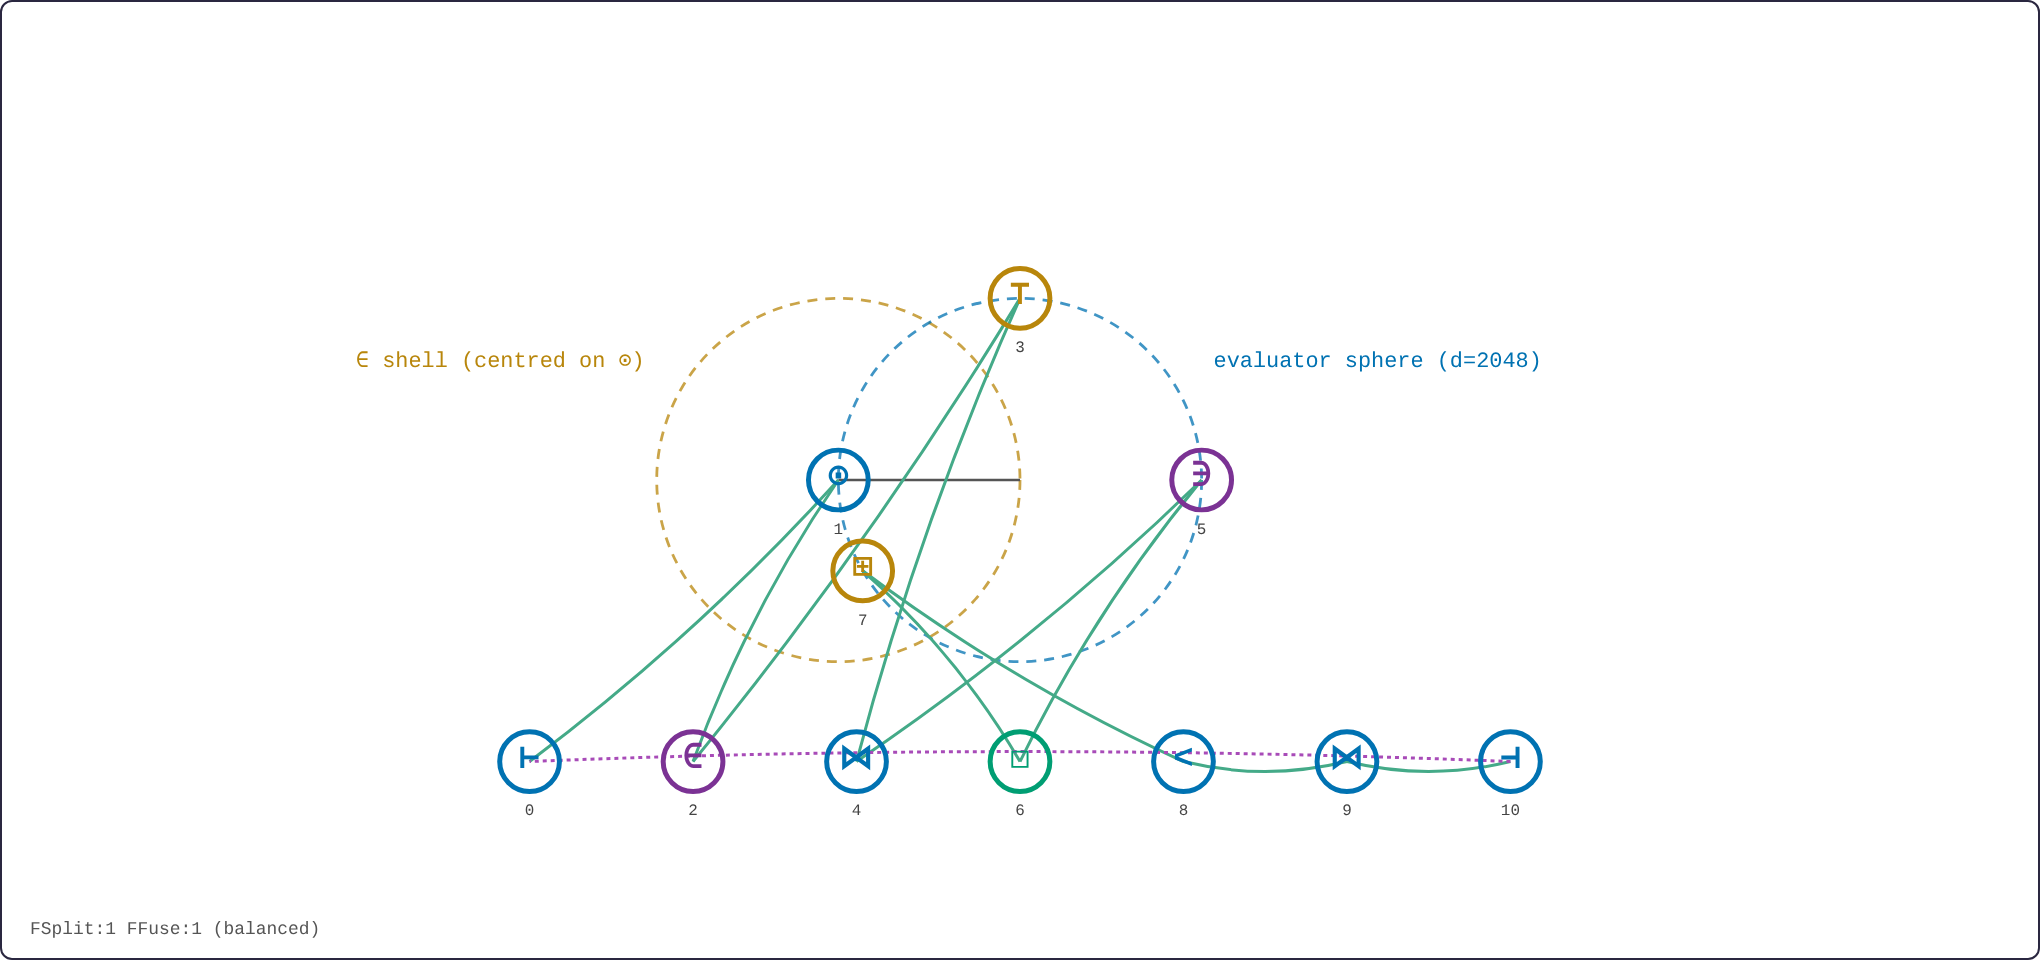
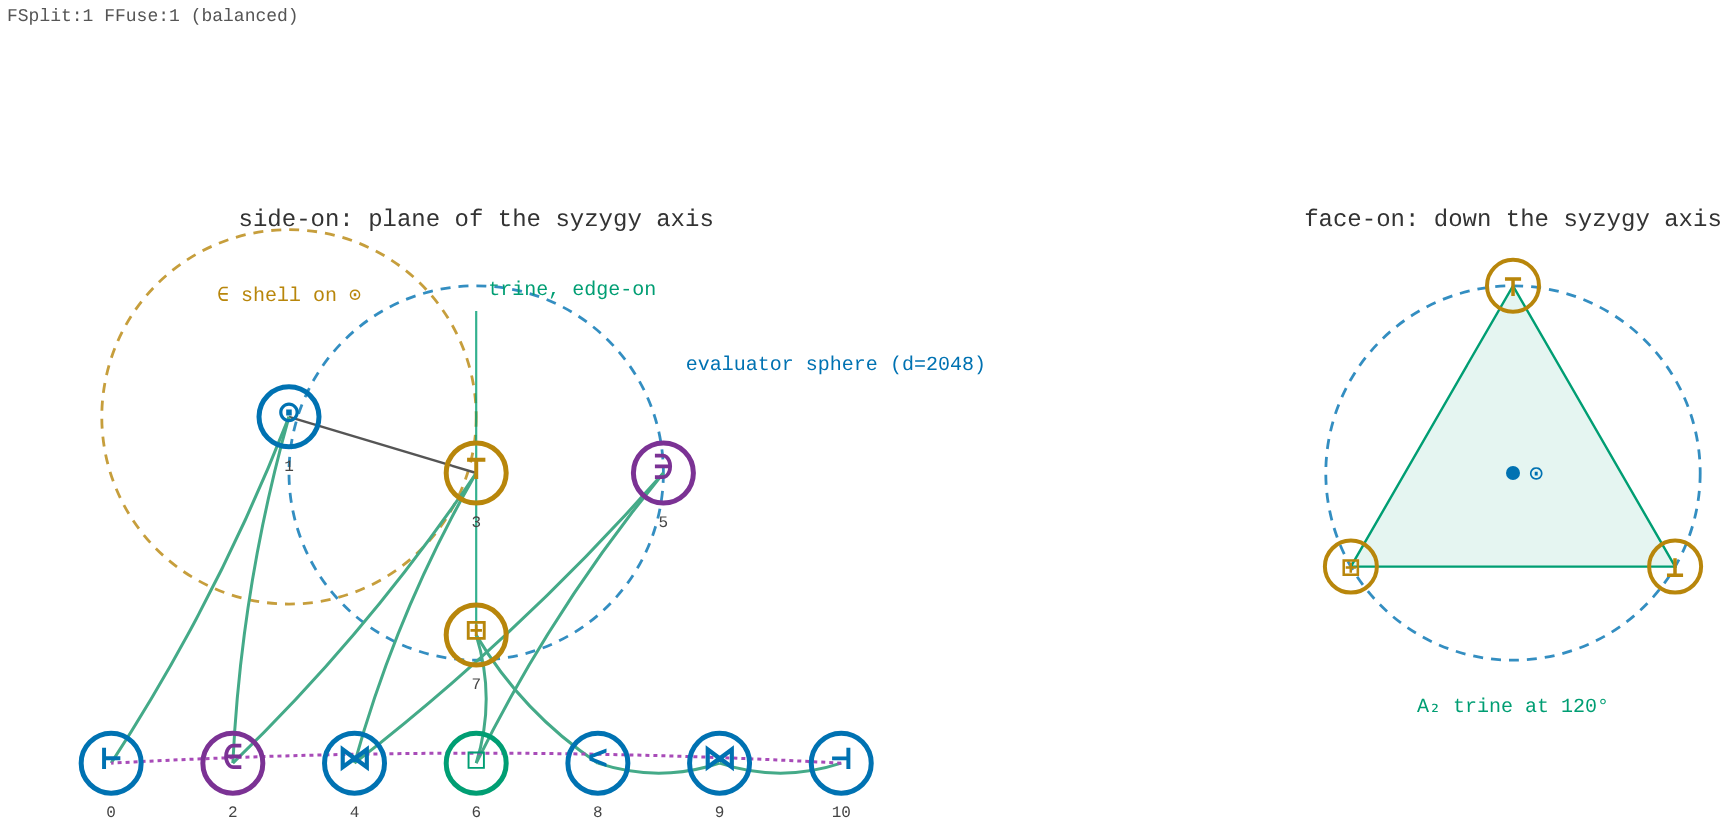
Two panels, because the geometry does not fit in one
The figure showed the two shells as tangent circles AND the trine spread at 120
degrees. Those are facts about different planes. The shells appear tangent only
in a plane containing the syzygy axis; the trine stands at 120 degrees only in
the plane perpendicular to it. Drawing both put two mutually exclusive viewpoints
in one picture, which is a perspective that does not exist. plotter3 emits
separate views for exactly this reason and this now follows it.

Left is side-on: the FSPLIT shell centred on IMSCRIB, the evaluator sphere of
equal radius one radius along the axis so IMSCRIB lies on it, FFUSE at the
antipodal pole, and the trine drawn as the vertical span it actually is in this
plane rather than as a triangle it is not. The program rides this panel.

Right is face-on down the axis: the same evaluator sphere as one circle, the
three arms at 120 degrees, the A2 trine, IMSCRIB at the centre.

Both panels are at one scale, so the two readings of the same sphere can be
compared rather than only believed.

diff --git a/dialect_cfg_viz.html b/dialect_cfg_viz.html
@@ -26,7 +26,7 @@ textarea{width:100%;background:#1e1c2e;color:#f0ead8;border:1px solid #3a3550;bo
 #ruleset-box .gv{color:#f0ead8}
 #rslt-box{background:#1a1828;border:1px solid #2a2740;border-radius:6px;padding:10px;margin:10px 0;font-size:11px}
 #cfg-box{background:#1a1828;border:1px solid #2a2740;border-radius:6px;padding:10px;margin:10px 0;font-size:11px;line-height:1.6}
-#cfg-view{width:100%;height:480px;background:transparent;border:1px solid #2a2740;border-radius:6px;position:relative;overflow:hidden}
+#cfg-view{width:100%;height:480px;background:transparent;border:none;position:relative;overflow:hidden}
 #cfg-view svg{width:100%;height:100%}
 .edge{stroke:#3a3550;stroke-width:1.5;fill:none}
 .edge.pass{stroke:#4a8}
@@ -442,67 +442,91 @@ function drawCFG(tokens, ig, allPass, seq, g1p, g2p, g3p, idx) {
   
   let html = "";
   
-  // Layout: the kernel's own geometry, not a ring.
+  // Layout: the kernel's own geometry, in TWO panels.
   //
-  // A circle placed every token at an arbitrary angle, so the picture said
-  // nothing the token order did not already say. The real arrangement is fixed
-  // (k3vM.html, "Spheres and evaluators"): the ∈ shell is centred on ⊙ with
-  // radius LR; the evaluator sphere has the SAME radius and is centred one
-  // radius along +x, so ⊙ lies exactly on it and the two are tangent; the three
-  // evaluators ⊤ ⊥ ⊞ stand at 120° on the evaluator equator, the A₂ trine; and
-  // ∋ sits at the antipodal pole, at 2·LR. The mainline ⊢ … ⊣ runs along the
-  // syzygy axis through both centres.
+  // A single panel cannot hold it. The two shells appear as tangent circles only
+  // in a plane containing the syzygy axis, and the A₂ trine appears at 120° only
+  // in the plane perpendicular to it. Drawing the tangency and the 120° spread
+  // together puts two mutually exclusive viewpoints in one picture. plotter3
+  // emits separate views for exactly this reason, and this follows it.
   //
-  // So a token's position is a fact about what it is, and the two shells and
-  // their tangency are drawn rather than implied.
-  const LR = Math.min(W, H) * 0.19;          // shell radius, both spheres
-  const ODOT = { x: W / 2 - LR, y: H / 2 };  // ⊙, centre of the ∈ shell
-  const CEN  = { x: ODOT.x + LR, y: H / 2 }; // evaluator sphere centre
-  const POLE = { x: ODOT.x + 2 * LR, y: H / 2 }; // ∋, antipodal pole
+  //   LEFT  — side-on, the plane of the syzygy axis: the ∈ shell centred on ⊙,
+  //           the evaluator sphere of equal radius one radius along +x so ⊙ lies
+  //           on it, ∋ at the antipodal pole. The trine is edge-on here and is
+  //           NOT drawn as a triangle, because in this plane it is not one.
+  //   RIGHT — face-on, looking down the syzygy axis: the evaluator sphere as one
+  //           circle with the three arms at 120°, the A₂ trine, ⊙ at the centre.
+  //
+  const PW = W / 2;                       // panel width
+  const LR = Math.min(PW, H) * 0.195;     // shell radius, one scale for both
+  const yMid = H / 2;
 
-  // the A₂ trine on the evaluator equator, ⊤ at the top
-  const TRINE = ["EVALT", "EVALF", "ENGAGR"];
-  const trinePos = {};
-  TRINE.forEach((tok, k) => {
-    const a = -Math.PI / 2 + 2 * Math.PI * k / 3;
-    trinePos[tok] = { x: CEN.x + LR * Math.cos(a), y: CEN.y + LR * Math.sin(a) };
-  });
+  // ── left panel: side-on ──
+  const ODOT = { x: PW * 0.30, y: yMid - LR * 0.30 };
+  const CEN  = { x: ODOT.x + LR, y: yMid };
+  const POLE = { x: ODOT.x + 2 * LR, y: yMid };
+  const h3 = LR * Math.sqrt(3) / 2;
 
-  // Both shells and the coupler between their centres, drawn first so the
-  // tokens sit on them rather than in front of an empty field.
-  html += `<circle cx="${ODOT.x}" cy="${ODOT.y}" r="${LR}" fill="none" stroke="#B8860B" stroke-width="1.4" stroke-dasharray="5 4" opacity="0.75"/>`;
-  html += `<circle cx="${CEN.x}" cy="${CEN.y}" r="${LR}" fill="none" stroke="#0072B2" stroke-width="1.4" stroke-dasharray="5 4" opacity="0.75"/>`;
+  html += `<circle cx="${ODOT.x}" cy="${ODOT.y}" r="${LR}" fill="none" stroke="#B8860B" stroke-width="1.4" stroke-dasharray="5 4" opacity="0.8"/>`;
+  html += `<circle cx="${CEN.x}" cy="${CEN.y}" r="${LR}" fill="none" stroke="#0072B2" stroke-width="1.4" stroke-dasharray="5 4" opacity="0.8"/>`;
   html += `<line x1="${ODOT.x}" y1="${ODOT.y}" x2="${CEN.x}" y2="${CEN.y}" stroke="#555" stroke-width="1.2"/>`;
-  html += `<text x="${ODOT.x - LR - 6}" y="${ODOT.y - LR * 0.62}" fill="#B8860B" font-size="11" text-anchor="end">∈ shell (centred on ⊙)</text>`;
-  html += `<text x="${CEN.x + LR + 6}" y="${CEN.y - LR * 0.62}" fill="#0072B2" font-size="11">evaluator sphere (d=2048)</text>`;
+  html += `<line x1="${CEN.x}" y1="${CEN.y - h3}" x2="${CEN.x}" y2="${CEN.y + h3}" stroke="#009E73" stroke-width="1.1" opacity="0.8"/>`;
+  html += `<text x="${ODOT.x + LR}" y="${yMid - LR - 30}" text-anchor="middle" fill="#333" font-size="12">side-on: plane of the syzygy axis</text>`;
+  html += `<text x="${ODOT.x}" y="${ODOT.y - LR * 0.62}" text-anchor="middle" fill="#B8860B" font-size="10">∈ shell on ⊙</text>`;
+  html += `<text x="${POLE.x + LR * 0.12}" y="${yMid - LR * 0.55}" fill="#0072B2" font-size="10">evaluator sphere (d=2048)</text>`;
+  html += `<text x="${CEN.x + 6}" y="${CEN.y - h3 - 8}" fill="#009E73" font-size="10">trine, edge-on</text>`;
 
-  // Mainline positions for the tokens the geometry does not pin: they ride the
-  // syzygy axis in program order, which is where the kernel puts them.
+  // ── right panel: face-on ──
+  const FCEN = { x: PW + PW * 0.5, y: yMid };
+  html += `<circle cx="${FCEN.x}" cy="${FCEN.y}" r="${LR}" fill="none" stroke="#0072B2" stroke-width="1.4" stroke-dasharray="5 4" opacity="0.8"/>`;
+  html += `<text x="${FCEN.x}" y="${yMid - LR - 30}" text-anchor="middle" fill="#333" font-size="12">face-on: down the syzygy axis</text>`;
+  const facePos = {};
+  ["EVALT", "EVALF", "ENGAGR"].forEach((tok, k) => {
+    const a = -Math.PI / 2 + 2 * Math.PI * k / 3;
+    facePos[tok] = { x: FCEN.x + LR * Math.cos(a), y: FCEN.y + LR * Math.sin(a) };
+  });
+  const tri = ["EVALT", "EVALF", "ENGAGR"].map(k => `${facePos[k].x},${facePos[k].y}`).join(" ");
+  html += `<polygon points="${tri}" fill="#009E73" fill-opacity="0.10" stroke="#009E73" stroke-width="1.2"/>`;
+  html += `<text x="${FCEN.x}" y="${FCEN.y + LR + 26}" text-anchor="middle" fill="#009E73" font-size="10">A₂ trine at 120°</text>`;
+  Object.entries(facePos).forEach(([tok, q]) => {
+    html += `<circle cx="${q.x}" cy="${q.y}" r="13" fill="none" stroke="#B8860B" stroke-width="2"/>`;
+    html += `<text x="${q.x}" y="${q.y + 5}" text-anchor="middle" fill="#B8860B" font-size="15" font-weight="bold">${GLYPH[tok]}</text>`;
+  });
+  html += `<circle cx="${FCEN.x}" cy="${FCEN.y}" r="3.5" fill="#0072B2"/>`;
+  html += `<text x="${FCEN.x + 8}" y="${FCEN.y + 4}" fill="#0072B2" font-size="12">⊙</text>`;
+
+  // ── the program itself rides the left panel ──
+  const TRINE = ["EVALT", "EVALF", "ENGAGR"];
+  const trinePos = {
+    EVALT:  { x: CEN.x, y: CEN.y },
+    EVALF:  { x: CEN.x, y: CEN.y - h3 },
+    ENGAGR: { x: CEN.x, y: CEN.y + h3 },
+  };
   const RAIL = [];
   for (let i = 0; i < n; i++) {
     const fixed = tokens[i] === "IMSCRIB" || tokens[i] === "FFUSE" || TRINE.includes(tokens[i]);
     if (!fixed) RAIL.push(i);
   }
-  const x0 = ODOT.x - LR * 1.7, x1 = POLE.x + LR * 1.7;
+  const x0 = ODOT.x - LR * 0.95, x1 = POLE.x + LR * 0.95;
 
   const pos = [];
   const seen = {};
   for (let i = 0; i < n; i++) {
     const tok = tokens[i];
-    // A token occurring more than once cannot be at one point, so repeats are
-    // fanned perpendicular to the axis instead of being stacked invisibly.
+    // A token occurring more than once cannot be at one point, so repeats fan
+    // instead of stacking invisibly on top of each other.
     const rep = (seen[tok] = (seen[tok] || 0) + 1) - 1;
-    const fan = rep * 16;
-    if (tok === "IMSCRIB")      pos.push({ x: ODOT.x, y: ODOT.y + fan });
-    else if (tok === "FFUSE")   pos.push({ x: POLE.x, y: POLE.y + fan });
-    else if (trinePos[tok])     pos.push({ x: trinePos[tok].x, y: trinePos[tok].y + fan });
+    const fan = rep * 15;
+    if (tok === "IMSCRIB")    pos.push({ x: ODOT.x, y: ODOT.y + fan });
+    else if (tok === "FFUSE") pos.push({ x: POLE.x, y: POLE.y + fan });
+    else if (trinePos[tok])   pos.push({ x: trinePos[tok].x, y: trinePos[tok].y + fan });
     else {
       const k = RAIL.indexOf(i);
       const frac = RAIL.length > 1 ? k / (RAIL.length - 1) : 0.5;
-      pos.push({ x: x0 + (x1 - x0) * frac, y: H / 2 + LR * 1.55 });
+      pos.push({ x: x0 + (x1 - x0) * frac, y: yMid + LR * 1.55 });
     }
   }
-  
+
   // Draw edges
   for (let i = 0; i < n; i++) {
     const j = (i + 1) % n; // cyclic - wraps around
@@ -566,7 +590,7 @@ function drawCFG(tokens, ig, allPass, seq, g1p, g2p, g3p, idx) {
   let ffuseCount = tokens.filter(t => t === "FFUSE").length;
   const balanced = fsplitCount === ffuseCount;
   
-  html += `<text x="12" y="${H-12}" fill="#555" font-size="9">FSplit:${fsplitCount} FFuse:${ffuseCount} ${balanced ? "(balanced)" : "(unbalanced)"}</text>`;
+  html += `<text x="12" y="14" fill="#555" font-size="9">FSplit:${fsplitCount} FFuse:${ffuseCount} ${balanced ? "(balanced)" : "(unbalanced)"}</text>`;
   
   // No title inside the figure. The universe name and the gate verdict are the
   // caption's job on a page, and drawn here they were the one label guaranteed

diff --git a/gen_cfg_viz.py b/gen_cfg_viz.py
@@ -64,7 +64,7 @@ textarea{width:100%;background:#1e1c2e;color:#f0ead8;border:1px solid #3a3550;bo
 #ruleset-box .gv{color:#f0ead8}
 #rslt-box{background:#1a1828;border:1px solid #2a2740;border-radius:6px;padding:10px;margin:10px 0;font-size:11px}
 #cfg-box{background:#1a1828;border:1px solid #2a2740;border-radius:6px;padding:10px;margin:10px 0;font-size:11px;line-height:1.6}
-#cfg-view{width:100%;height:480px;background:transparent;border:1px solid #2a2740;border-radius:6px;position:relative;overflow:hidden}
+#cfg-view{width:100%;height:480px;background:transparent;border:none;position:relative;overflow:hidden}
 #cfg-view svg{width:100%;height:100%}
 .edge{stroke:#3a3550;stroke-width:1.5;fill:none}
 .edge.pass{stroke:#4a8}
@@ -392,67 +392,91 @@ function drawCFG(tokens, ig, allPass, seq, g1p, g2p, g3p, idx) {
   
   let html = "";
   
-  // Layout: the kernel's own geometry, not a ring.
+  // Layout: the kernel's own geometry, in TWO panels.
   //
-  // A circle placed every token at an arbitrary angle, so the picture said
-  // nothing the token order did not already say. The real arrangement is fixed
-  // (k3vM.html, "Spheres and evaluators"): the ∈ shell is centred on ⊙ with
-  // radius LR; the evaluator sphere has the SAME radius and is centred one
-  // radius along +x, so ⊙ lies exactly on it and the two are tangent; the three
-  // evaluators ⊤ ⊥ ⊞ stand at 120° on the evaluator equator, the A₂ trine; and
-  // ∋ sits at the antipodal pole, at 2·LR. The mainline ⊢ … ⊣ runs along the
-  // syzygy axis through both centres.
+  // A single panel cannot hold it. The two shells appear as tangent circles only
+  // in a plane containing the syzygy axis, and the A₂ trine appears at 120° only
+  // in the plane perpendicular to it. Drawing the tangency and the 120° spread
+  // together puts two mutually exclusive viewpoints in one picture. plotter3
+  // emits separate views for exactly this reason, and this follows it.
   //
-  // So a token's position is a fact about what it is, and the two shells and
-  // their tangency are drawn rather than implied.
-  const LR = Math.min(W, H) * 0.19;          // shell radius, both spheres
-  const ODOT = { x: W / 2 - LR, y: H / 2 };  // ⊙, centre of the ∈ shell
-  const CEN  = { x: ODOT.x + LR, y: H / 2 }; // evaluator sphere centre
-  const POLE = { x: ODOT.x + 2 * LR, y: H / 2 }; // ∋, antipodal pole
+  //   LEFT  — side-on, the plane of the syzygy axis: the ∈ shell centred on ⊙,
+  //           the evaluator sphere of equal radius one radius along +x so ⊙ lies
+  //           on it, ∋ at the antipodal pole. The trine is edge-on here and is
+  //           NOT drawn as a triangle, because in this plane it is not one.
+  //   RIGHT — face-on, looking down the syzygy axis: the evaluator sphere as one
+  //           circle with the three arms at 120°, the A₂ trine, ⊙ at the centre.
+  //
+  const PW = W / 2;                       // panel width
+  const LR = Math.min(PW, H) * 0.195;     // shell radius, one scale for both
+  const yMid = H / 2;
 
-  // the A₂ trine on the evaluator equator, ⊤ at the top
-  const TRINE = ["EVALT", "EVALF", "ENGAGR"];
-  const trinePos = {};
-  TRINE.forEach((tok, k) => {
-    const a = -Math.PI / 2 + 2 * Math.PI * k / 3;
-    trinePos[tok] = { x: CEN.x + LR * Math.cos(a), y: CEN.y + LR * Math.sin(a) };
-  });
+  // ── left panel: side-on ──
+  const ODOT = { x: PW * 0.30, y: yMid - LR * 0.30 };
+  const CEN  = { x: ODOT.x + LR, y: yMid };
+  const POLE = { x: ODOT.x + 2 * LR, y: yMid };
+  const h3 = LR * Math.sqrt(3) / 2;
 
-  // Both shells and the coupler between their centres, drawn first so the
-  // tokens sit on them rather than in front of an empty field.
-  html += `<circle cx="${ODOT.x}" cy="${ODOT.y}" r="${LR}" fill="none" stroke="#B8860B" stroke-width="1.4" stroke-dasharray="5 4" opacity="0.75"/>`;
-  html += `<circle cx="${CEN.x}" cy="${CEN.y}" r="${LR}" fill="none" stroke="#0072B2" stroke-width="1.4" stroke-dasharray="5 4" opacity="0.75"/>`;
+  html += `<circle cx="${ODOT.x}" cy="${ODOT.y}" r="${LR}" fill="none" stroke="#B8860B" stroke-width="1.4" stroke-dasharray="5 4" opacity="0.8"/>`;
+  html += `<circle cx="${CEN.x}" cy="${CEN.y}" r="${LR}" fill="none" stroke="#0072B2" stroke-width="1.4" stroke-dasharray="5 4" opacity="0.8"/>`;
   html += `<line x1="${ODOT.x}" y1="${ODOT.y}" x2="${CEN.x}" y2="${CEN.y}" stroke="#555" stroke-width="1.2"/>`;
-  html += `<text x="${ODOT.x - LR - 6}" y="${ODOT.y - LR * 0.62}" fill="#B8860B" font-size="11" text-anchor="end">∈ shell (centred on ⊙)</text>`;
-  html += `<text x="${CEN.x + LR + 6}" y="${CEN.y - LR * 0.62}" fill="#0072B2" font-size="11">evaluator sphere (d=2048)</text>`;
+  html += `<line x1="${CEN.x}" y1="${CEN.y - h3}" x2="${CEN.x}" y2="${CEN.y + h3}" stroke="#009E73" stroke-width="1.1" opacity="0.8"/>`;
+  html += `<text x="${ODOT.x + LR}" y="${yMid - LR - 30}" text-anchor="middle" fill="#333" font-size="12">side-on: plane of the syzygy axis</text>`;
+  html += `<text x="${ODOT.x}" y="${ODOT.y - LR * 0.62}" text-anchor="middle" fill="#B8860B" font-size="10">∈ shell on ⊙</text>`;
+  html += `<text x="${POLE.x + LR * 0.12}" y="${yMid - LR * 0.55}" fill="#0072B2" font-size="10">evaluator sphere (d=2048)</text>`;
+  html += `<text x="${CEN.x + 6}" y="${CEN.y - h3 - 8}" fill="#009E73" font-size="10">trine, edge-on</text>`;
 
-  // Mainline positions for the tokens the geometry does not pin: they ride the
-  // syzygy axis in program order, which is where the kernel puts them.
+  // ── right panel: face-on ──
+  const FCEN = { x: PW + PW * 0.5, y: yMid };
+  html += `<circle cx="${FCEN.x}" cy="${FCEN.y}" r="${LR}" fill="none" stroke="#0072B2" stroke-width="1.4" stroke-dasharray="5 4" opacity="0.8"/>`;
+  html += `<text x="${FCEN.x}" y="${yMid - LR - 30}" text-anchor="middle" fill="#333" font-size="12">face-on: down the syzygy axis</text>`;
+  const facePos = {};
+  ["EVALT", "EVALF", "ENGAGR"].forEach((tok, k) => {
+    const a = -Math.PI / 2 + 2 * Math.PI * k / 3;
+    facePos[tok] = { x: FCEN.x + LR * Math.cos(a), y: FCEN.y + LR * Math.sin(a) };
+  });
+  const tri = ["EVALT", "EVALF", "ENGAGR"].map(k => `${facePos[k].x},${facePos[k].y}`).join(" ");
+  html += `<polygon points="${tri}" fill="#009E73" fill-opacity="0.10" stroke="#009E73" stroke-width="1.2"/>`;
+  html += `<text x="${FCEN.x}" y="${FCEN.y + LR + 26}" text-anchor="middle" fill="#009E73" font-size="10">A₂ trine at 120°</text>`;
+  Object.entries(facePos).forEach(([tok, q]) => {
+    html += `<circle cx="${q.x}" cy="${q.y}" r="13" fill="none" stroke="#B8860B" stroke-width="2"/>`;
+    html += `<text x="${q.x}" y="${q.y + 5}" text-anchor="middle" fill="#B8860B" font-size="15" font-weight="bold">${GLYPH[tok]}</text>`;
+  });
+  html += `<circle cx="${FCEN.x}" cy="${FCEN.y}" r="3.5" fill="#0072B2"/>`;
+  html += `<text x="${FCEN.x + 8}" y="${FCEN.y + 4}" fill="#0072B2" font-size="12">⊙</text>`;
+
+  // ── the program itself rides the left panel ──
+  const TRINE = ["EVALT", "EVALF", "ENGAGR"];
+  const trinePos = {
+    EVALT:  { x: CEN.x, y: CEN.y },
+    EVALF:  { x: CEN.x, y: CEN.y - h3 },
+    ENGAGR: { x: CEN.x, y: CEN.y + h3 },
+  };
   const RAIL = [];
   for (let i = 0; i < n; i++) {
     const fixed = tokens[i] === "IMSCRIB" || tokens[i] === "FFUSE" || TRINE.includes(tokens[i]);
     if (!fixed) RAIL.push(i);
   }
-  const x0 = ODOT.x - LR * 1.7, x1 = POLE.x + LR * 1.7;
+  const x0 = ODOT.x - LR * 0.95, x1 = POLE.x + LR * 0.95;
 
   const pos = [];
   const seen = {};
   for (let i = 0; i < n; i++) {
     const tok = tokens[i];
-    // A token occurring more than once cannot be at one point, so repeats are
-    // fanned perpendicular to the axis instead of being stacked invisibly.
+    // A token occurring more than once cannot be at one point, so repeats fan
+    // instead of stacking invisibly on top of each other.
     const rep = (seen[tok] = (seen[tok] || 0) + 1) - 1;
-    const fan = rep * 16;
-    if (tok === "IMSCRIB")      pos.push({ x: ODOT.x, y: ODOT.y + fan });
-    else if (tok === "FFUSE")   pos.push({ x: POLE.x, y: POLE.y + fan });
-    else if (trinePos[tok])     pos.push({ x: trinePos[tok].x, y: trinePos[tok].y + fan });
+    const fan = rep * 15;
+    if (tok === "IMSCRIB")    pos.push({ x: ODOT.x, y: ODOT.y + fan });
+    else if (tok === "FFUSE") pos.push({ x: POLE.x, y: POLE.y + fan });
+    else if (trinePos[tok])   pos.push({ x: trinePos[tok].x, y: trinePos[tok].y + fan });
     else {
       const k = RAIL.indexOf(i);
       const frac = RAIL.length > 1 ? k / (RAIL.length - 1) : 0.5;
-      pos.push({ x: x0 + (x1 - x0) * frac, y: H / 2 + LR * 1.55 });
+      pos.push({ x: x0 + (x1 - x0) * frac, y: yMid + LR * 1.55 });
     }
   }
-  
+
   // Draw edges
   for (let i = 0; i < n; i++) {
     const j = (i + 1) % n; // cyclic - wraps around
@@ -516,7 +540,7 @@ function drawCFG(tokens, ig, allPass, seq, g1p, g2p, g3p, idx) {
   let ffuseCount = tokens.filter(t => t === "FFUSE").length;
   const balanced = fsplitCount === ffuseCount;
   
-  html += `<text x="12" y="${H-12}" fill="#555" font-size="9">FSplit:${fsplitCount} FFuse:${ffuseCount} ${balanced ? "(balanced)" : "(unbalanced)"}</text>`;
+  html += `<text x="12" y="14" fill="#555" font-size="9">FSplit:${fsplitCount} FFuse:${ffuseCount} ${balanced ? "(balanced)" : "(unbalanced)"}</text>`;
   
   // No title inside the figure. The universe name and the gate verdict are the
   // caption's job on a page, and drawn here they were the one label guaranteed
